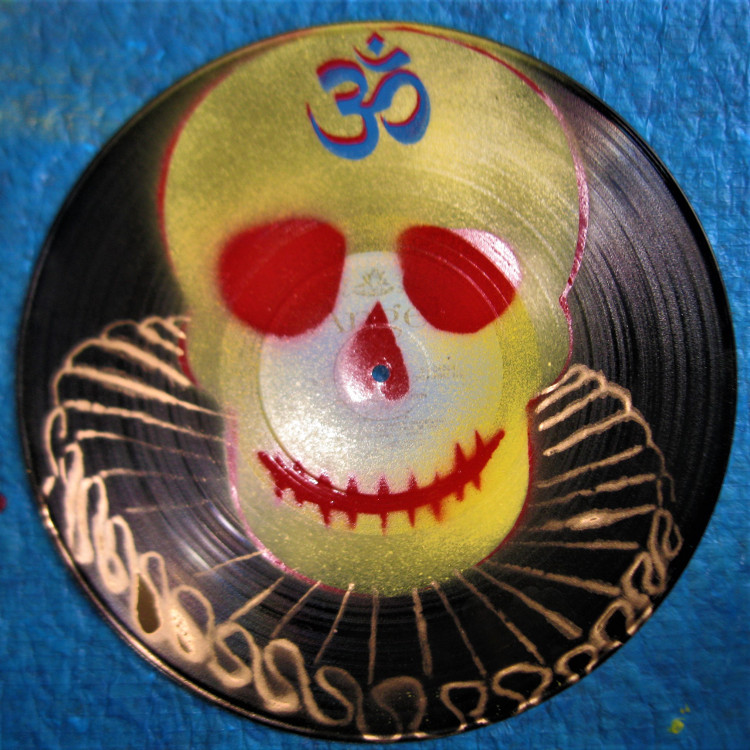
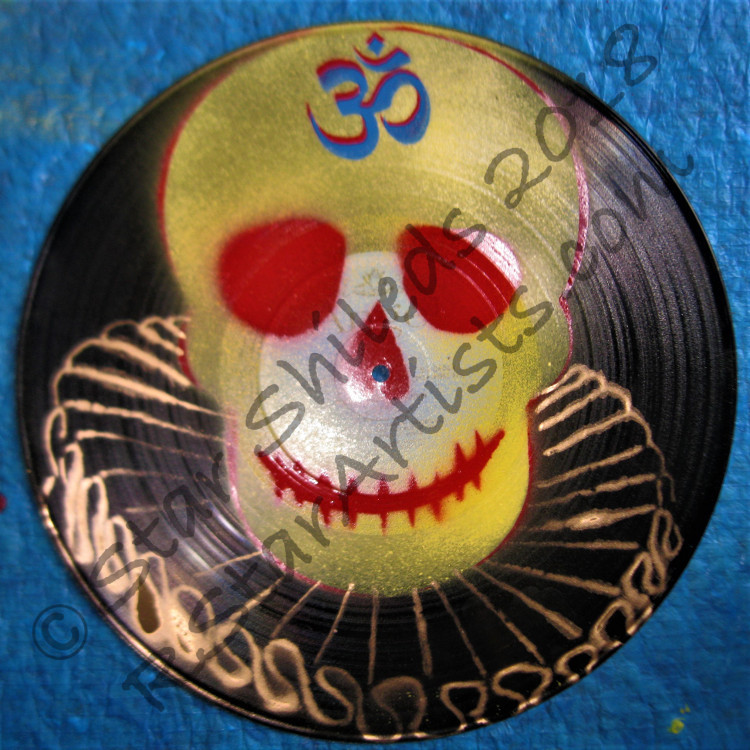
adjusted slideshow and navbar css, added watermark to slideshow photos

diff --git a/client/src/components/Navbar/Navbar.js b/client/src/components/Navbar/Navbar.js
@@ -1,24 +1,31 @@
 import React from 'react';
+import logo from './assets/images/sunburstLogo.png'
+import NavLink from '../nav_link/nav_link';
+import css from './navbar.css'
+const logoStyle = {
+    height: '100px',
+    width: '100px'
+}
 
 class Navbar extends React.Component {
     render() {
         return (
             <div>
                 <nav className="navbar navbar-expand-lg navbar-light bg-light">
-                    <a className="navbar-brand" href="#">RStarArtists</a>
+                    <img src={logo} style={logoStyle}></img>
                     <button className="navbar-toggler" type="button" data-toggle="collapse" data-target="#navbarNav" aria-controls="navbarNav" aria-expanded="false" aria-label="Toggle navigation">
                         <span className="navbar-toggler-icon"></span>
                     </button>
                     <div className="collapse navbar-collapse" id="navbarNav">
                         <ul className="navbar-nav">
-                            <li className="nav-item active">
-                                <a className="nav-link" href="/">Home <span className="sr-only">(current)</span></a>
+                            <li className="nav-item">
+                                <NavLink className="nav-link" to="/">Home</NavLink>
                             </li>
                             <li className="nav-item">
-                                <a className="nav-link" href="/products">Products</a>
+                                <NavLink className="nav-link" to="/products">Products</NavLink>
                             </li>
                             <li className="nav-item">
-                                <a className="nav-link" href="#">About</a>
+                                <NavLink className="nav-link" to="#">About</NavLink>
                             </li>
                         </ul>
                     </div>

diff --git a/client/src/App.js b/client/src/App.js
@@ -5,7 +5,7 @@ import logo from './logo.svg';
 import './App.css';
 import './components/Navbar/Navbar';
 import Navbar from './components/Navbar/Navbar';
-import Slideshow from './components/Slideshow/Slideshow';
+import Home from './pages/Home/Home';
 import Footer from './components/Footer/Footer';
 import Login from './pages/Login/Login';
 import Manage from './pages/Manage/Manage';
@@ -19,10 +19,11 @@ class App extends Component {
           <Navbar/>
           <div className="container">
             <Switch>
-              <Route exact path="/" component={Slideshow} />
+              <Route exact path="/" component={Home} />
               <Route exact path="/manage/login" component={Login} />
               <Route exact path="/products" component={Products} />
               {/* <Route exact path="/products/:catalogNumber" component={Item} /> */}
+              {/* <Route exact path="/about" component={About} /> */}
               <PrivateRoute exact path="/manage" component={Manage} />
             </Switch>
           </div>

diff --git a/client/public/index.html b/client/public/index.html
@@ -24,6 +24,7 @@
     <script src="https://code.jquery.com/jquery-3.3.1.slim.min.js" integrity="sha384-q8i/X+965DzO0rT7abK41JStQIAqVgRVzpbzo5smXKp4YfRvH+8abtTE1Pi6jizo" crossorigin="anonymous"></script>
     <script src="https://cdnjs.cloudflare.com/ajax/libs/popper.js/1.14.3/umd/popper.min.js" integrity="sha384-ZMP7rVo3mIykV+2+9J3UJ46jBk0WLaUAdn689aCwoqbBJiSnjAK/l8WvCWPIPm49" crossorigin="anonymous"></script>
     <script src="https://stackpath.bootstrapcdn.com/bootstrap/4.1.1/js/bootstrap.min.js" integrity="sha384-smHYKdLADwkXOn1EmN1qk/HfnUcbVRZyYmZ4qpPea6sjB/pTJ0euyQp0Mk8ck+5T" crossorigin="anonymous"></script>
+    <link href="https://fonts.googleapis.com/css?family=Lobster" rel="stylesheet">
   </head>
   <body>
     <noscript>

diff --git a/client/src/components/nav_link/nav_link.js b/client/src/components/nav_link/nav_link.js
@@ -1,0 +1,22 @@
+import React from 'react';
+import { Link } from 'react-router-dom';
+import PropTypes from 'prop-types';
+
+class NavLink extends React.Component {
+    render() {
+        var isActive = this.context.router.route.location.pathname === this.props.to;
+        var className = isActive ? 'active' : '';
+
+        return(
+            <Link className={className} {...this.props}>
+                {this.props.children}
+            </Link>
+        );
+    }
+}
+
+NavLink.contextTypes = {
+    router: PropTypes.object
+};
+
+export default NavLink;

diff --git a/client/src/components/Slideshow/Slideshow.js b/client/src/components/Slideshow/Slideshow.js
@@ -2,7 +2,7 @@ import React from 'react';
 import ReactDOM from 'react-dom';
 import ImageGallery from 'react-image-gallery';
 import img1 from './images/header/01_edit1.jpg';
-import img2 from './images/header/02.png';
+import img2 from './images/header/02_edit.jpg';
 import img3 from './images/header/03_edit.jpg';
 import img4 from './images/header/04_edit.jpg';
 import img5 from './images/header/05_edit.jpg';

diff --git a/client/src/pages/Home/Home.js b/client/src/pages/Home/Home.js
@@ -1,0 +1,16 @@
+import React from 'react';
+import Slideshow from '../../components/Slideshow/Slideshow';
+
+
+
+class Home extends React.Component{
+    render(){
+        return(
+            <div className="col-md-7 mx-auto">
+                <Slideshow/>
+            </div>
+        )
+    }
+}
+
+export default Home;

diff --git a/client/src/components/Navbar/navbar.css b/client/src/components/Navbar/navbar.css
@@ -1,0 +1,4 @@
+.nav-link{
+    font-family: 'Lobster', cursive;
+    font-size: 36px;
+}
